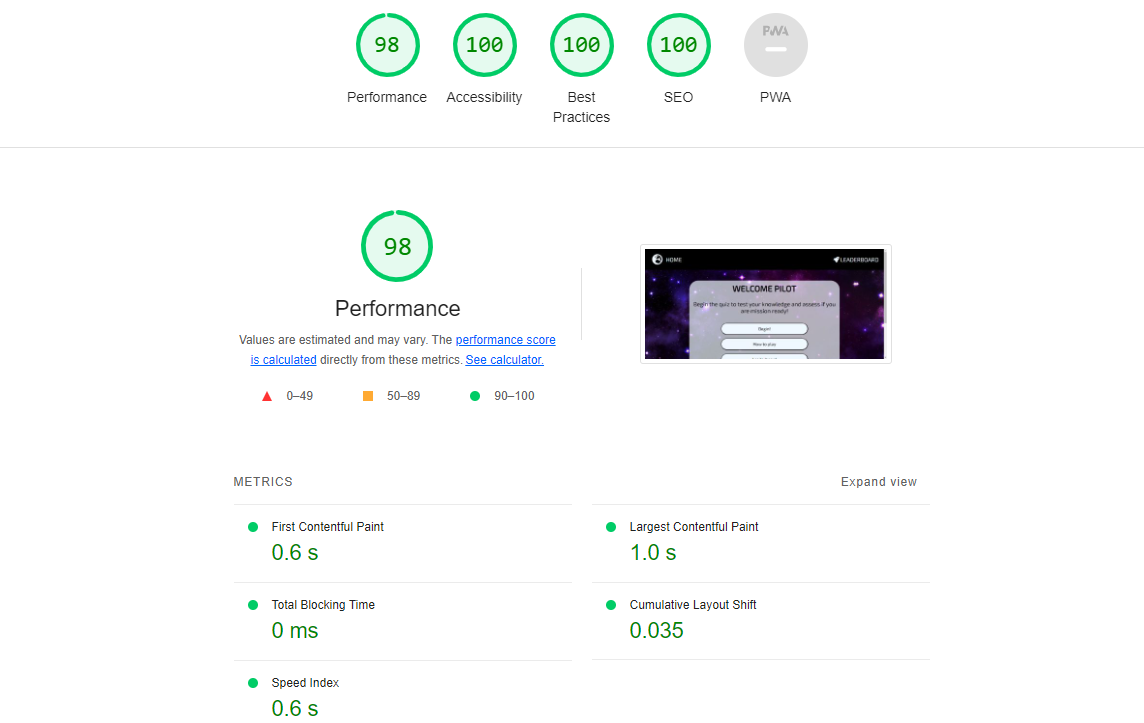
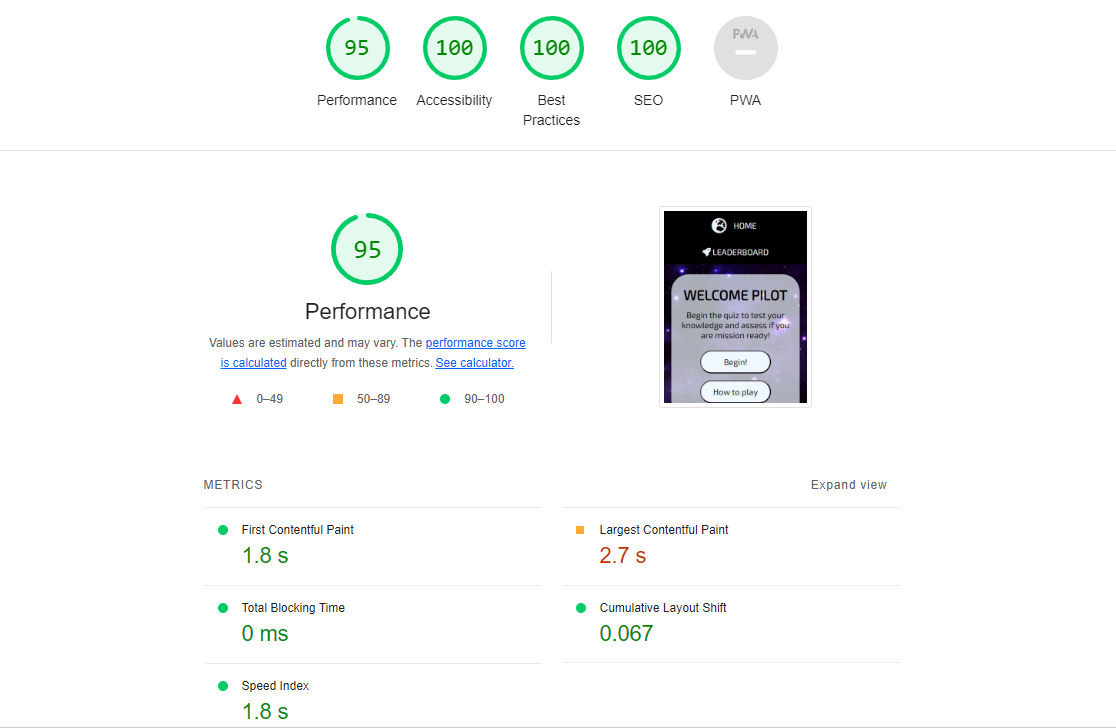
Add images for lighthouse scores testing

diff --git a/assets/css/style.css b/assets/css/style.css
@@ -790,6 +790,5 @@ body {
         #leaderboard-table-container>h2 {
             font-size: 160%;
         }
-
     }
 }

diff --git a/TESTING.md b/TESTING.md
@@ -64,59 +64,45 @@ Google chrome Lighthouse tester was used to assess SEO score, acccessibility, co
 
 #### Username page Desktop Lighthouse Scores
 
-![Screenshot of username page desktop lighthouse scores](documentation/rise-lighthouse.PNG)
+![Screenshot of username page desktop lighthouse scores](documentation/username-desktop-lighthouse.png)
 
-#### Rise Mobile Lighthouse Scores
+#### Username Page Mobile Lighthouse Scores
 
-![Screenshot of rise mobile lighthouse scores](documentation/rise-lighthouse-mobile.PNG)
+![Screenshot of username page mobile lighthouse scores](documentation/username-mobile-lighthouse.png)
 
-#### Reign Desktop Lighthouse Scores
+#### Quiz Start Desktop Lighthouse Scores
 
-![Screenshot of reign desktop lighthouse scores](documentation/reign-lighthouse.PNG)
+![Screenshot of Quiz Start desktop lighthouse scores](documentation/quiz-start-desktop-lighthouse.png)
 
-#### Reign Mobile Lighthouse Scores
+#### Quiz Start Mobile Lighthouse Scores
 
-![Screenshot of reign mobile lighthouse scores](documentation/reign-lighthouse-mobile.PNG)
+![Screenshot of Quiz Start mobile lighthouse scores](documentation/quiz-start-mobile-lighthouse.png)
 
-#### Legacy Desktop Lighthouse Scores
+#### Results Page Lighthouse Scores
 
-![Screenshot of legacy desktop lighthouse scores](documentation/legacy-lighthouse.PNG)
+![Screenshot of Results Page desktop lighthouse scores](documentation/result-desktop-lighthouse.png)
 
-#### Legacy Mobile Lighthouse Scores
+#### Results Page Mobile Lighthouse Scores
 
-![Screenshot of legacy mobile lighthouse scores](documentation/legacy-lighthouse-mobile.PNG)
+![Screenshot of Results Page mobile lighthouse scores](documentation/result-mobile-lighthouse.png)
 
-#### Form Desktop Lighthouse Scores
+#### Leaderboard Desktop Lighthouse Scores
 
-![Screenshot of form desktop lighthouse scores](documentation/form-lighthouse.PNG)
+![Screenshot of Leaderboard desktop lighthouse scores](documentation/leaderboard-desktop.png)
 
-#### Form Mobile Lighthouse Scores
+#### Leaderboard Mobile Lighthouse Scores
 
-![Screenshot of form mobile lighthouse scores](documentation/form-lighthouse-mobile.PNG)
-
-#### Thankyou page Desktop Lighthouse Scores
-
-![Screenshot of thank you page desktop lighthouse scores](documentation/thankyou-lighthouse.PNG)
-
-#### Thankyou page Mobile Lighthouse Scores
-
-![Screenshot of thank you page desktop lighthouse scores](documentation/thankyou-lighthouse-mobile.PNG)
-
-#### Thankyou page Desktop Lighthouse Score with refresh removed
-
-![Screenshot of thank you page desktop lighthouse scores after the refresh had been removed](documentation/thankyou-lighthouse-norefresh-desktop.PNG)
-
-#### Thankyou page Mobile Lighthouse Score with refresh removed
-
-![Screenshot of thank you page mobile lighthouse scores after the refresh had been removed](documentation/thankyou-lighthouse-norefresh-mobile.PNG)
+![Screenshot of Leaderboard mobile lighthouse scores](documentation/leaderboard-mobile-lighthouse.png)
 
 #### 404 Error Page Desktop Lighthouse Scores
 
-![Screenshot of 404 page desktop lighthouse scores](documentation/404-lighthouse.PNG)
+![Screenshot of Error Page desktop lighthouse scores](documentation/error-page-desktop-lighthouse.png)
 
 #### 404 Error Page Mobile Lighthouse Scores
 
-![Screenshot of 404 page mobile lighthouse scores](documentation/404-lighthouse-mobile.PNG)
+![Screenshot of 404 Error Page Mobile lighthouse scores](documentation/error-page-mobile-lighthouse.png)
+
+#### Thankyou page Desktop Lighthouse Score with refresh removed
 
 #### Findings and Actions
 
